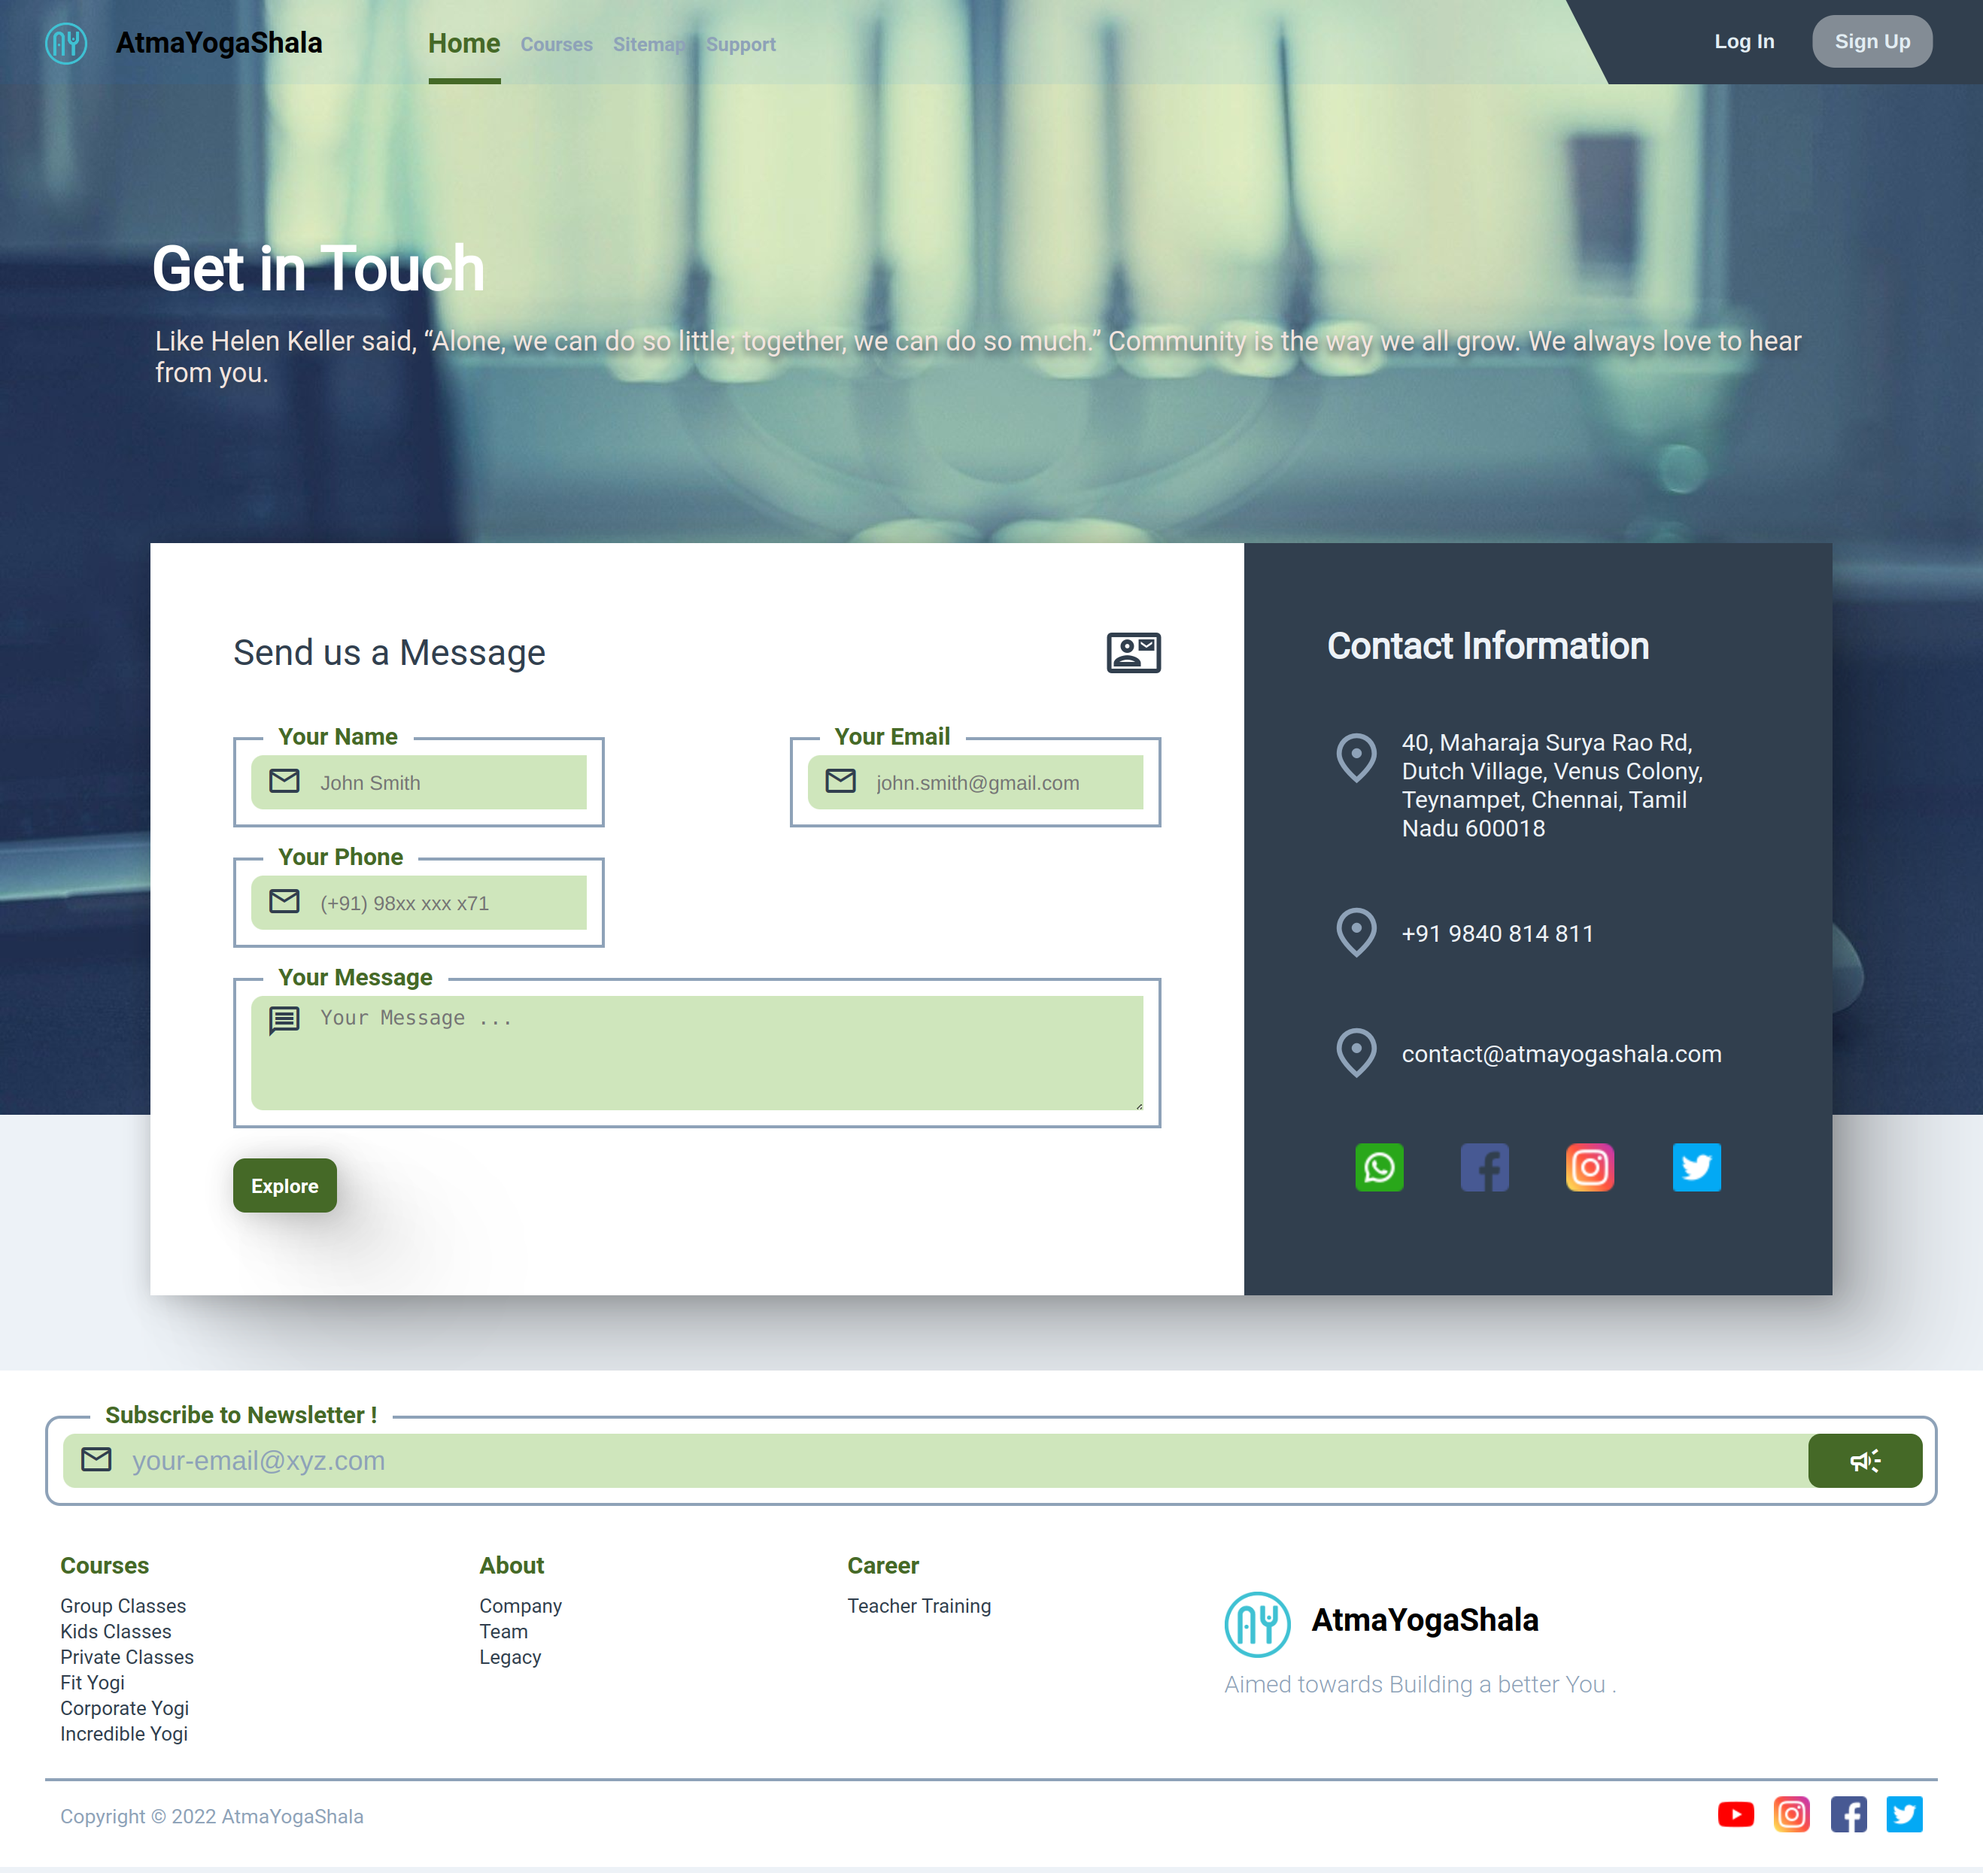
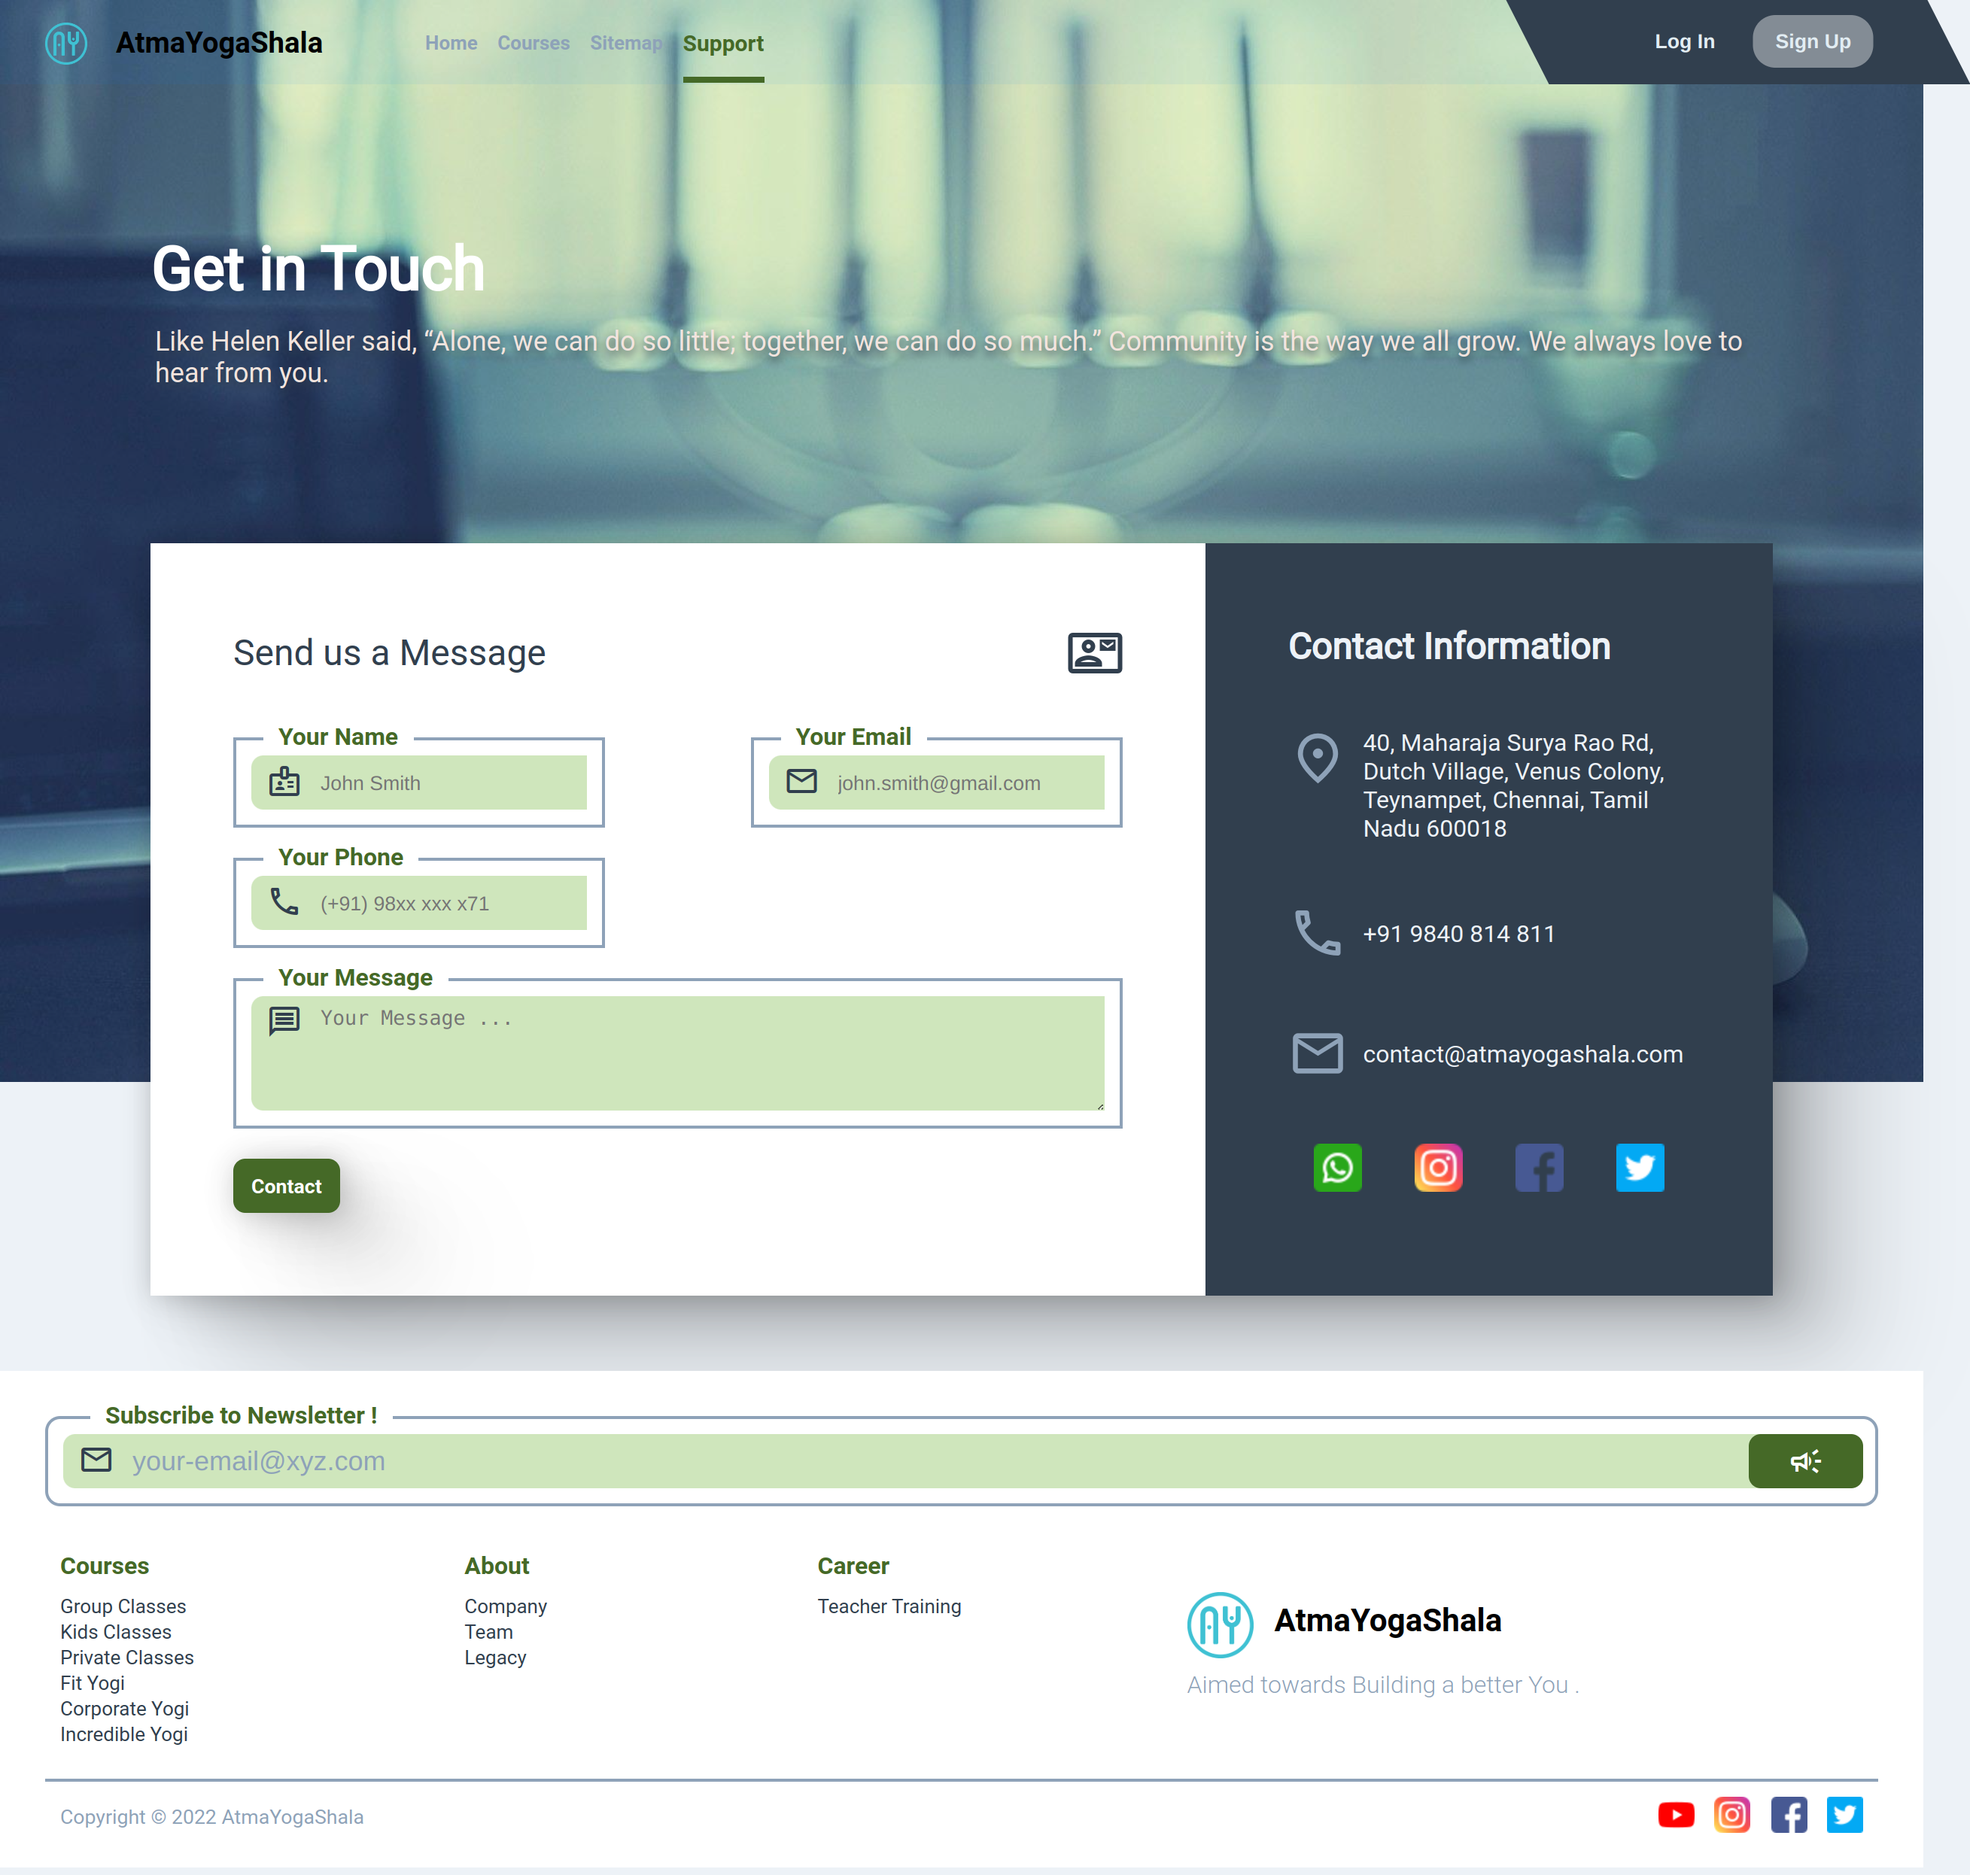
ok

diff --git a/public/products.css b/public/products.css
@@ -1,34 +1,32 @@
-@import url('https://fonts.googleapis.com/css2?family=Poppins:wght@400;700&display=swap');
+@import url("https://fonts.googleapis.com/css2?family=Poppins:wght@400;700&display=swap");
 
 * {
-  box-sizing: border-box;
-  margin: 0;
-  padding: 0;
+    box-sizing: border-box;
+    margin: 0;
+    padding: 0;
 }
 
 body {
-  font-family: 'Poppins', sans-serif;
-  font-size: 16px;
-  line-height: 1.5;
-  color: #333;
-  background: #a1c3ff;
+    font-family: "Poppins", sans-serif;
+    font-size: 16px;
+    line-height: 1.5;
+    color: #333;
+    background: #a1c3ff;
 }
 
 img {
-  max-width: 100%;
+    max-width: 100%;
 }
 
 h1,
 h2 {
-  margin-bottom: 15px;
+    margin-bottom: 15px;
 }
 
-
-
 .container {
-  max-width: 1100px;
-  margin: 0 auto;
-  padding: 0 30px;
+    max-width: 1100px;
+    margin: 0 auto;
+    padding: 0 30px;
 }
 
 /* .navbar {
@@ -54,86 +52,84 @@ h2 {
 } */
 
 .navbar .container {
-  display: flex;
-  justify-content: space-between;
-  align-items: center;
-  height: 100%;
+    display: flex;
+    justify-content: space-between;
+    align-items: center;
+    height: 100%;
 }
 
 .navbar ul {
-  display: flex;
+    display: flex;
 }
 
 .navbar ul li {
-  margin-left: 20px;
+    margin-left: 20px;
 }
 
 .header {
-  /* background-color: #0151cc; */
-  background-image: linear-gradient(rgb(223, 178, 15), rgb(55, 70, 235));
-  color: #fff;
-  min-height: 400px;
+    /* background-color: #0151cc; */
+    background-image: linear-gradient(rgb(223, 178, 15), rgb(55, 70, 235));
+    color: #fff;
+    min-height: 400px;
 }
 
 .header h1 {
-  font-size: 3rem;
-  font-weight: bold;
-  line-height: 1.2;
+    font-size: 3rem;
+    font-weight: bold;
+    line-height: 1.2;
 }
 
 .header img {
-  max-width: 400px;
+    max-width: 400px;
 }
 
 .header .container {
-  display: flex;
-  align-items: center;
-  justify-content: space-between;
+    display: flex;
+    align-items: center;
+    justify-content: space-between;
 }
 
 .boxes .container {
-  display: flex;
-  justify-content: space-between;
+    display: flex;
+    justify-content: space-between;
 }
 
 .box {
-  flex: 1;
-  background-image: linear-gradient(to right, rgba(234, 165, 28, 0), rgb(60, 82, 222));
-  /* background: #0a51cc; */
-  color: #fff;
-  text-align: center;
-  border-radius: 10px;
-  margin: 20px 10px;
-  box-shadow: 0 3px 5px rgba(0, 0, 0, 0.6);
-  padding: 15px 20px;
+    flex: 1;
+    background-image: linear-gradient(to right, rgba(234, 165, 28, 0), rgb(60, 82, 222));
+    /* background: #0a51cc; */
+    color: #fff;
+    text-align: center;
+    border-radius: 10px;
+    margin: 20px 10px;
+    box-shadow: 0 3px 5px rgba(0, 0, 0, 0.6);
+    padding: 15px 20px;
 }
-
-
 
 @media (max-width: 768px) {
-  .header .container {
-    flex-direction: column;
-    padding-top: 20px;
-    text-align: center;
-  }
+    .header .container {
+        flex-direction: column;
+        padding-top: 20px;
+        text-align: center;
+    }
 
-  .boxes .container {
-    display: block;
-    text-align: center;
-  }
+    .boxes .container {
+        display: block;
+        text-align: center;
+    }
 }
-.group{
+.group {
     text-shadow: 1px 1px 3px rgb(5, 46, 225);
     text-align: center;
-    text-decoration: underline ;
+    text-decoration: underline;
 }
-.pic{
+.pic {
     width: 350px;
     border-radius: 5px;
 }
 .button1 {
-   background-color: #0a23a1; 
-   
+    background-color: #0a23a1;
+
     border: none;
     color: white;
     padding: 15px 32px;
@@ -143,10 +139,10 @@ h2 {
     font-size: 16px;
     margin: 4px 2px;
     cursor: pointer;
-    -webkit-transition-duration: 0.4s; 
+    -webkit-transition-duration: 0.4s;
     transition-duration: 0.4s;
     border-radius: 5px;
-  }
-  .button1:hover {
-    box-shadow: 0 12px 16px 0 rgba(0,0,0,0.24),0 17px 50px 0 rgba(0,0,0,0.19);
-  }
+}
+.button1:hover {
+    box-shadow: 0 12px 16px 0 rgba(0, 0, 0, 0.24), 0 17px 50px 0 rgba(0, 0, 0, 0.19);
+}

diff --git a/public/contact.css b/public/contact.css
@@ -1,13 +1,17 @@
-img.backart {
+div.contact_back {
+    width: 100vw;
+    overflow: hidden;
     position: absolute;
     top: 0;
     left: 0;
-    width: 100%;
     z-index: -2;
+    height: fill-available;
+    height: -moz-fill-available;
+    height: -webkit-fill-available;
 }
 
-div.greet {
-    padding: 100px;
+img.backart {
+    width: 100%;
 }
 
 div.greet div.title {
@@ -25,16 +29,14 @@ div.greet div.more {
 }
 
 section {
-    width: calc(100% - 200px);
     display: flex;
-    margin-left: 100px;
+    margin: 0 auto;
     height: auto;
     background-color: var(--white);
-    flex-direction: row;
-    flex-wrap: wrap;
     justify-content: center;
     margin-bottom: 50px;
     box-shadow: var(--shadow-close);
+    min-width: min-content;
 }
 
 section div.form div.title {
@@ -47,12 +49,7 @@ section div.form div.title > span {
     color: var(--ptc);
     float: right;
 }
-section div.form {
-    color: var(--ptc);
-    width: 65%;
-    min-width: 600px;
-    padding: 55px;
-}
+
 section div.form div.inputs div.input-box {
     width: auto;
     display: inline-block;
@@ -114,15 +111,11 @@ section div.addr > div {
     margin-top: 40px;
 }
 
-section div.addr div.social img {
-    font-size: 1.5em;
+section div.addr div.social a {
     margin: auto auto;
 }
 section div.addr span.material-icons {
     color: var(--stc);
-}
-section div.addr {
-    color: var(--bg);
 }
 
 div.addr > div span.material-icons {
@@ -134,10 +127,15 @@ section div.addr > span {
     font-size: 1.5em;
     font-weight: bold;
 }
+
 section div.addr {
-    width: 35%;
+    color: var(--bg);
+    min-width: min-content;
     background-color: var(--ptc);
     padding: 55px;
+    max-width: fill-available;
+    max-width: -moz-fill-available;
+    max-width: -webkit-fill-available;
 }
 
 section div.form div.inputs button {
@@ -153,4 +151,65 @@ section div.form div.inputs button {
     position: relative;
     bottom: 0;
     right: 0;
+}
+/* Desktop Start */
+@media only screen and (min-width: 756px) {
+    div.greet {
+        padding: 100px;
+    }
+    section {
+        width: calc(100% - 200px);
+        flex-direction: row;
+        flex-wrap: nowrap;
+    }
+    section div.form {
+        width: 65%;
+        color: var(--ptc);
+        padding: 55px;
+        max-width: fill-available;
+        max-width: -moz-fill-available;
+        max-width: -webkit-fill-available;
+    }
+    section div.addr {
+        width: 35%;
+        color: var(--bg);
+        background-color: var(--ptc);
+        padding: 55px;
+        max-width: fill-available;
+        max-width: -moz-fill-available;
+        max-width: -webkit-fill-available;
+    }
+}
+
+/* Mobile Start */
+@media only screen and (max-width: 755px) {
+    img.backart {
+        transform: scale(1.4);
+    }
+    div.greet {
+        padding: 30px;
+    }
+    section {
+        width: 100%;
+        flex-direction: column;
+        flex-wrap: wrap;
+    }
+    section div.form {
+        width: 100%;
+        color: var(--ptc);
+        padding: 55px;
+        max-width: fill-available;
+        max-width: -moz-fill-available;
+        max-width: -webkit-fill-available;
+        margin: 0 auto;
+    }
+    section div.addr {
+        width: 100%;
+        color: var(--bg);
+        background-color: var(--ptc);
+        padding: 55px;
+        max-width: fill-available;
+        max-width: -moz-fill-available;
+        max-width: -webkit-fill-available;
+    }
 }

diff --git a/public/contact.html b/public/contact.html
@@ -27,7 +27,10 @@
                 <button class="login">Log In</button>
             </div>
         </nav>
-        <img src="./assets/contact_back.jpg" alt="" class="backart" />
+        <div class="contact_back">
+            <img src="./assets/contact_back.jpg" alt="" class="backart" />
+
+        </div>
         <div class="greet">
             <div class="title">Get in Touch</div>
             <div class="more">
@@ -71,7 +74,7 @@
                             <textarea name="message" type="text" placeholder="Your Message ..."></textarea>
                         </div>
                     </div>
-                    <button>Explore</button>    
+                    <button>Contact</button>    
                 </div>
             </div>
             <div class="addr">
@@ -89,10 +92,10 @@
                     <span style="margin: auto 0;">contact@atmayogashala.com</span>
                 </div>
                 <div class="social">
-                    <img src="./assets/whatsapp.png" alt="WA" />
-                    <img src="./assets/facebook.png" alt="fb" />
-                    <img src="./assets/instagram.png" alt="IG" />
-                    <img src="./assets//twitter.png" alt="TW" />
+                    <a href="https://wa.me/919840814811" target="_blank" ><img src="./assets/whatsapp.png" /></a>
+                    <a href="https://www.instagram.com/atmayogashala/" target="_blank" ></s><img src="./assets/instagram.png" /></a>
+                    <a href="https://www.facebook.com/atmayogashala/" target="_blank" ><img src="./assets/facebook.png" /></a>
+                    <a href="https://twitter.com/atmayogashala/" target="_blank" ><img src="./assets/twitter.png" /></a>
                 </div>
             </div>
         </section>
